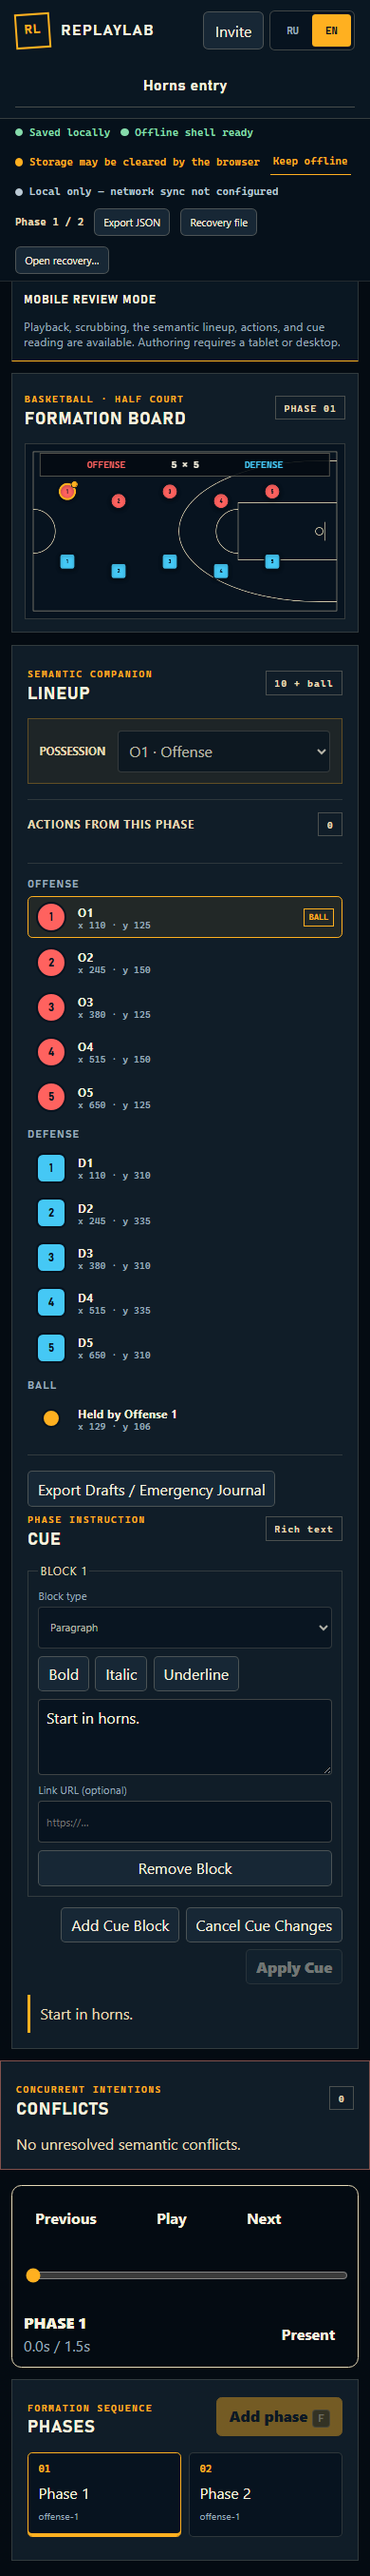
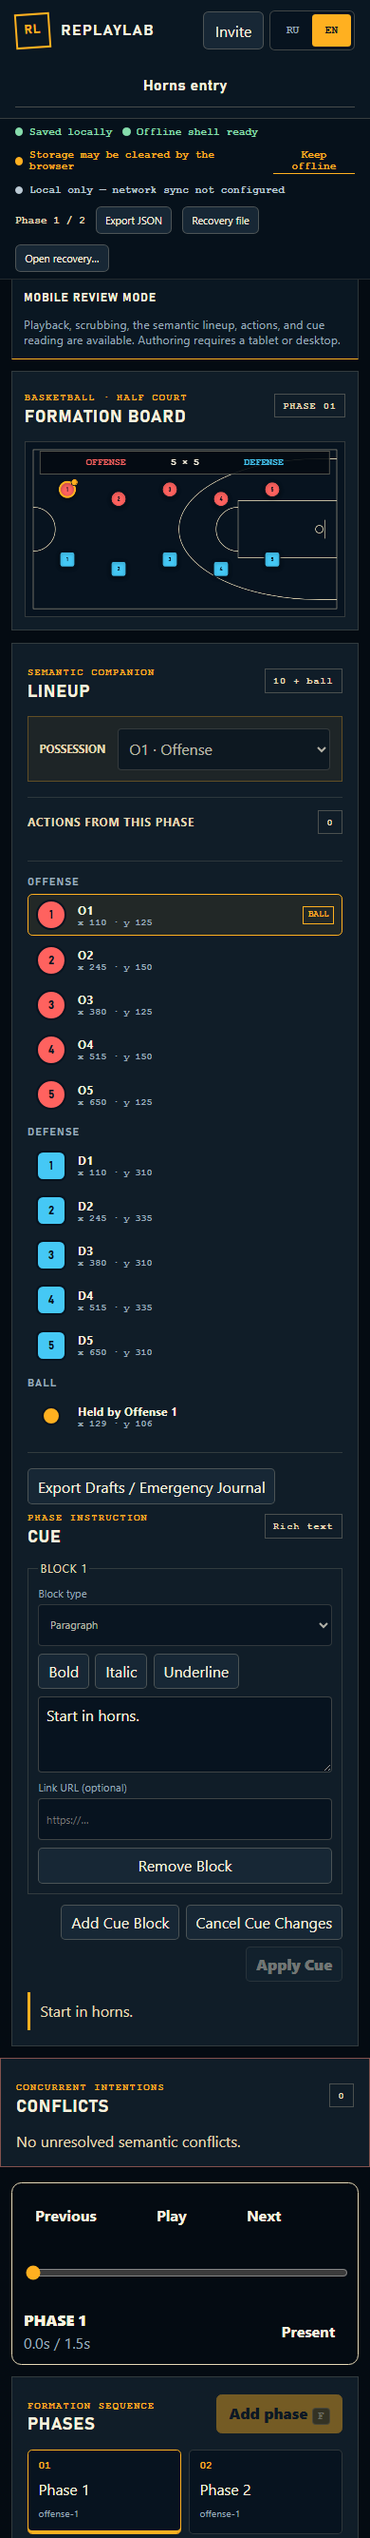
Fix mobile header reflow with Russian invitation label

diff --git a/packages/replaylab/foundation/src/styles.css b/packages/replaylab/foundation/src/styles.css
@@ -983,7 +983,7 @@ kbd {
 
 @media (max-width: 47.9375rem) {
   .command-bar {
-    grid-template-columns: 1fr auto;
+    grid-template-columns: auto minmax(0, 1fr);
   }
 
   .brand small {
@@ -992,6 +992,8 @@ kbd {
 
   .command-actions {
     gap: 0.35rem;
+    min-width: 0;
+    flex-wrap: wrap;
   }
 
   .history-controls {

diff --git a/packages/replaylab/foundation/evidence/THIRD_PARTY_NOTICES.md b/packages/replaylab/foundation/evidence/THIRD_PARTY_NOTICES.md
@@ -1,6 +1,6 @@
 # ReplayLab third-party notices
 
-Generated for repository commit `b9e0e404af8bf8e4d0ea32f404e4e61d283a0488`. This inventory supplements and does not replace the preserved root and nested license files.
+Generated for repository commit `ac2549b09048b93d3ef9f69020c0d28fd0b49535`. This inventory supplements and does not replace the preserved root and nested license files.
 
 ## Runtime dependencies
 
